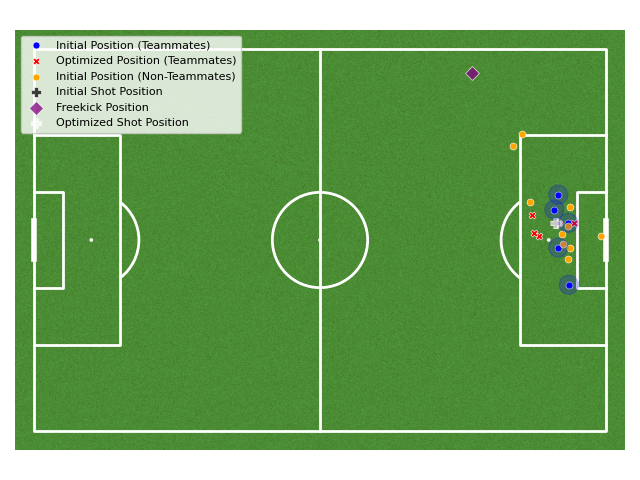
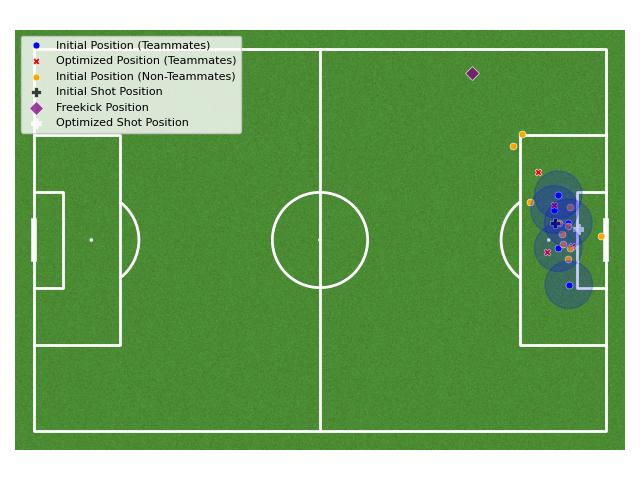
radius = 5 + examples

Changed region(s): [[0.8125, 0.3438, 0.9375, 0.6562]]

diff --git a/src/modelling/genetic/genetic_pygad_global.py b/src/modelling/genetic/genetic_pygad_global.py
@@ -23,7 +23,7 @@ warnings.filterwarnings('ignore')
 SWEEP_ID = "thomas-toulouse/football-data-src_modelling_genetic/jfr8m8x0"
 SHOW_PLOT = True
 XGB_DATA_PATH_2 = os.path.join('data', 'processed', 'clean_action_data_glob.csv')
-MAX_RADIUS = 2
+MAX_RADIUS = 5
 
 def custom_gene_initialization(x, y, max_radius=5):
     """Function to initialize each gene within a circle of a certain radius."""
@@ -170,7 +170,14 @@ def get_real_x_y():
     initial_positions_non_teammates = {'x': [], 'y': [], 'names': []}
 
     # Extract initial positions from the freeze frame
-    for player in freeze_frame:
+    players = freeze_frame
+    for player in players:
+        player['distance'] = euclidean_distance(player['location'], (shot_x, shot_y))
+        player['angle'] = goal_player_angle(player['location'], (shot_x, shot_y), use_goal=True)
+
+    sorted_players = sorted(players, key=lambda x: x['distance'])
+    
+    for player in sorted_players:
         x = player['location'][0]
         y = player['location'][1]
         if player['teammate']:
@@ -197,7 +204,7 @@ if __name__ == '__main__':
     df_base = pd.read_csv(XGB_DATA_PATH_2)
 
     df = df_base[cols_to_keep]
-    if 'pctge_improvement' in df.columns:
+    if 'pctge_improvement' in df_base.columns:
         overall_improv_list = list(filter(lambda x: not math.isnan(x), df_base['pctge_improvement'].to_list()))
         overall_fitness_list = list(filter(lambda x: not math.isnan(x), df_base['pred_improved_xg'].to_list()))
         overall_basexg = list(filter(lambda x: not math.isnan(x), df_base['pred_base_xg'].to_list()))
@@ -225,7 +232,8 @@ if __name__ == '__main__':
     print("Starting from index :", index_to_start)
 
     for idx in tqdm(range(index_to_start, len(df))): 
-        if 'pctge_improvement' in df.columns:
+        df_base = pd.read_csv(XGB_DATA_PATH_2)
+        if 'pctge_improvement' in df_base.columns:
             overall_improv_list = list(filter(lambda x: not math.isnan(x), df_base['pctge_improvement'].to_list()))
             overall_fitness_list = list(filter(lambda x: not math.isnan(x), df_base['pred_improved_xg'].to_list()))
             overall_basexg = list(filter(lambda x: not math.isnan(x), df_base['pred_base_xg'].to_list()))
@@ -249,9 +257,9 @@ if __name__ == '__main__':
         # Prepare the initial population
         base_population = [initial_data["shot_x"], initial_data["shot_y"]]
         # base_population = []
-        for idx,teammate in enumerate(teammates):
-            x = initial_positions_teammates['x'][idx]
-            y = initial_positions_teammates['y'][idx]
+        for i,teammate in enumerate(teammates):
+            x = initial_positions_teammates['x'][i]
+            y = initial_positions_teammates['y'][i]
             # x, y = calculate_position((initial_data["shot_x"], initial_data["shot_y"]), initial_data[f'distance_{teammate}'], initial_data[f'angle_{teammate}'])
             base_population.append(x)
             base_population.append(y)
@@ -366,8 +374,7 @@ if __name__ == '__main__':
 
             # Display the legend to differentiate between initial and optimized positions
             ax.legend(fontsize=8, loc='upper left')
-            plt.show()
-            # plt.savefig(f"{os.path.join('src','modelling','genetic','results', str(idx))}.png")
+            plt.savefig(f"{os.path.join('src','modelling','genetic','results', str(idx))}.png", format="png")
 
         print(f"Maximum Improvement: {max} %")
         print(f"Best Iloc: {best_iloc}")
